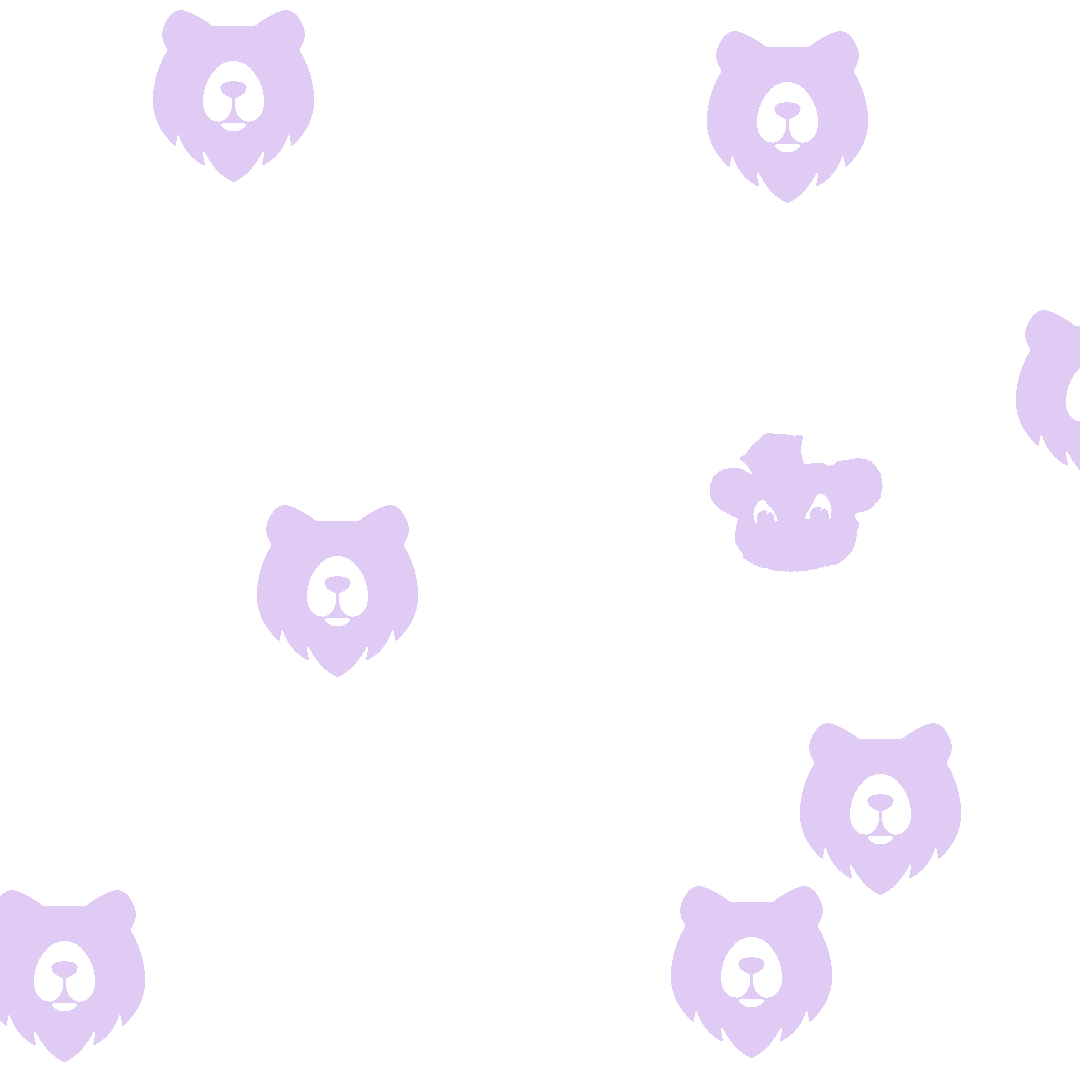
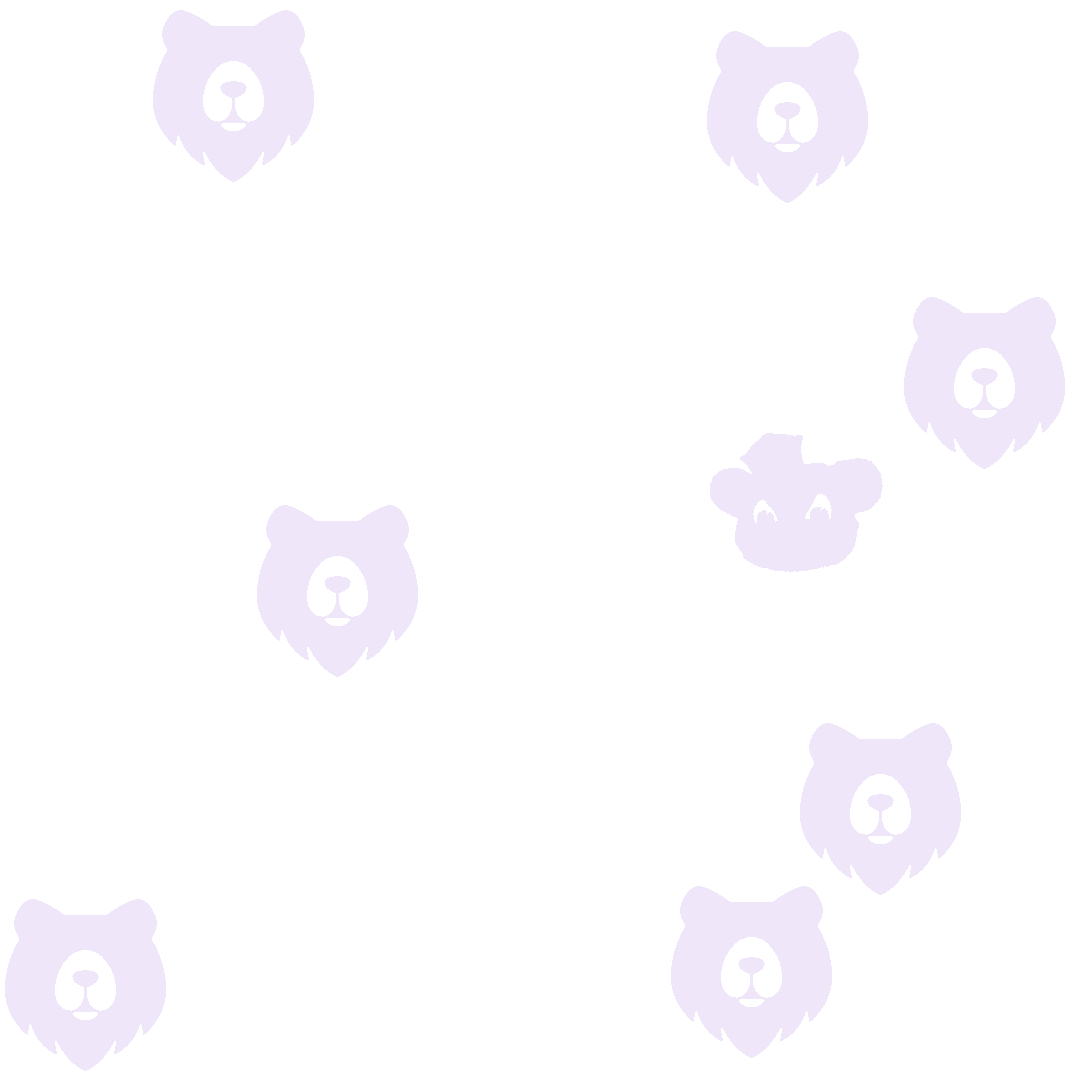
UI changes to learning material

diff --git a/templates/education_basic.html b/templates/education_basic.html
@@ -18,8 +18,8 @@
 
 <section id="about" class="ud-about py-3">
   <div class="container">
-    <div class="ud-about-wrapper wow fadeInUp" data-wow-delay=".2s">
-      <div class="ud-about-content-wrapper bears-background">
+    <div class="ud-about-wrapper wow fadeInUp bears-background" data-wow-delay=".2s">
+      <div class="ud-about-content-wrapper">
         <div class="ud-about-content">
           <span class="tag">A Simple Example</span>
           <h2>Balding Bears</h2>
@@ -107,8 +107,8 @@
 
 <section id="about-2" class="ud-about">
   <div class="container">
-    <div class="ud-about-wrapper wow fadeInUp" data-wow-delay=".2s">
-      <div class="ud-about-content-wrapper bears-background">
+    <div class="ud-about-wrapper wow fadeInUp bears-background" data-wow-delay=".2s">
+      <div class="ud-about-content-wrapper">
         <div class="ud-about-content">
           <p>
             After a week spent searching for the cause, nothing about this information stands
@@ -187,8 +187,8 @@
 
 <section id="about-3" class="ud-about">
   <div class="container">
-    <div class="ud-about-wrapper wow fadeInUp" data-wow-delay=".2s">
-      <div class="ud-about-content-wrapper bears-background">
+    <div class="ud-about-wrapper wow fadeInUp bears-background" data-wow-delay=".2s">
+      <div class="ud-about-content-wrapper">
         <div class="ud-about-content">
           <h2>Attacking the Data</h2>
           <p>

diff --git a/static/css/sdp-styles.css b/static/css/sdp-styles.css
@@ -150,3 +150,9 @@ th {
     background-image: url(/static/images/about/bears.png);
     background-size: 100%;
 }
+
+@media only screen and (min-width: 600px) {
+    .bears-background {
+        background-size: 50%;
+    }
+}
